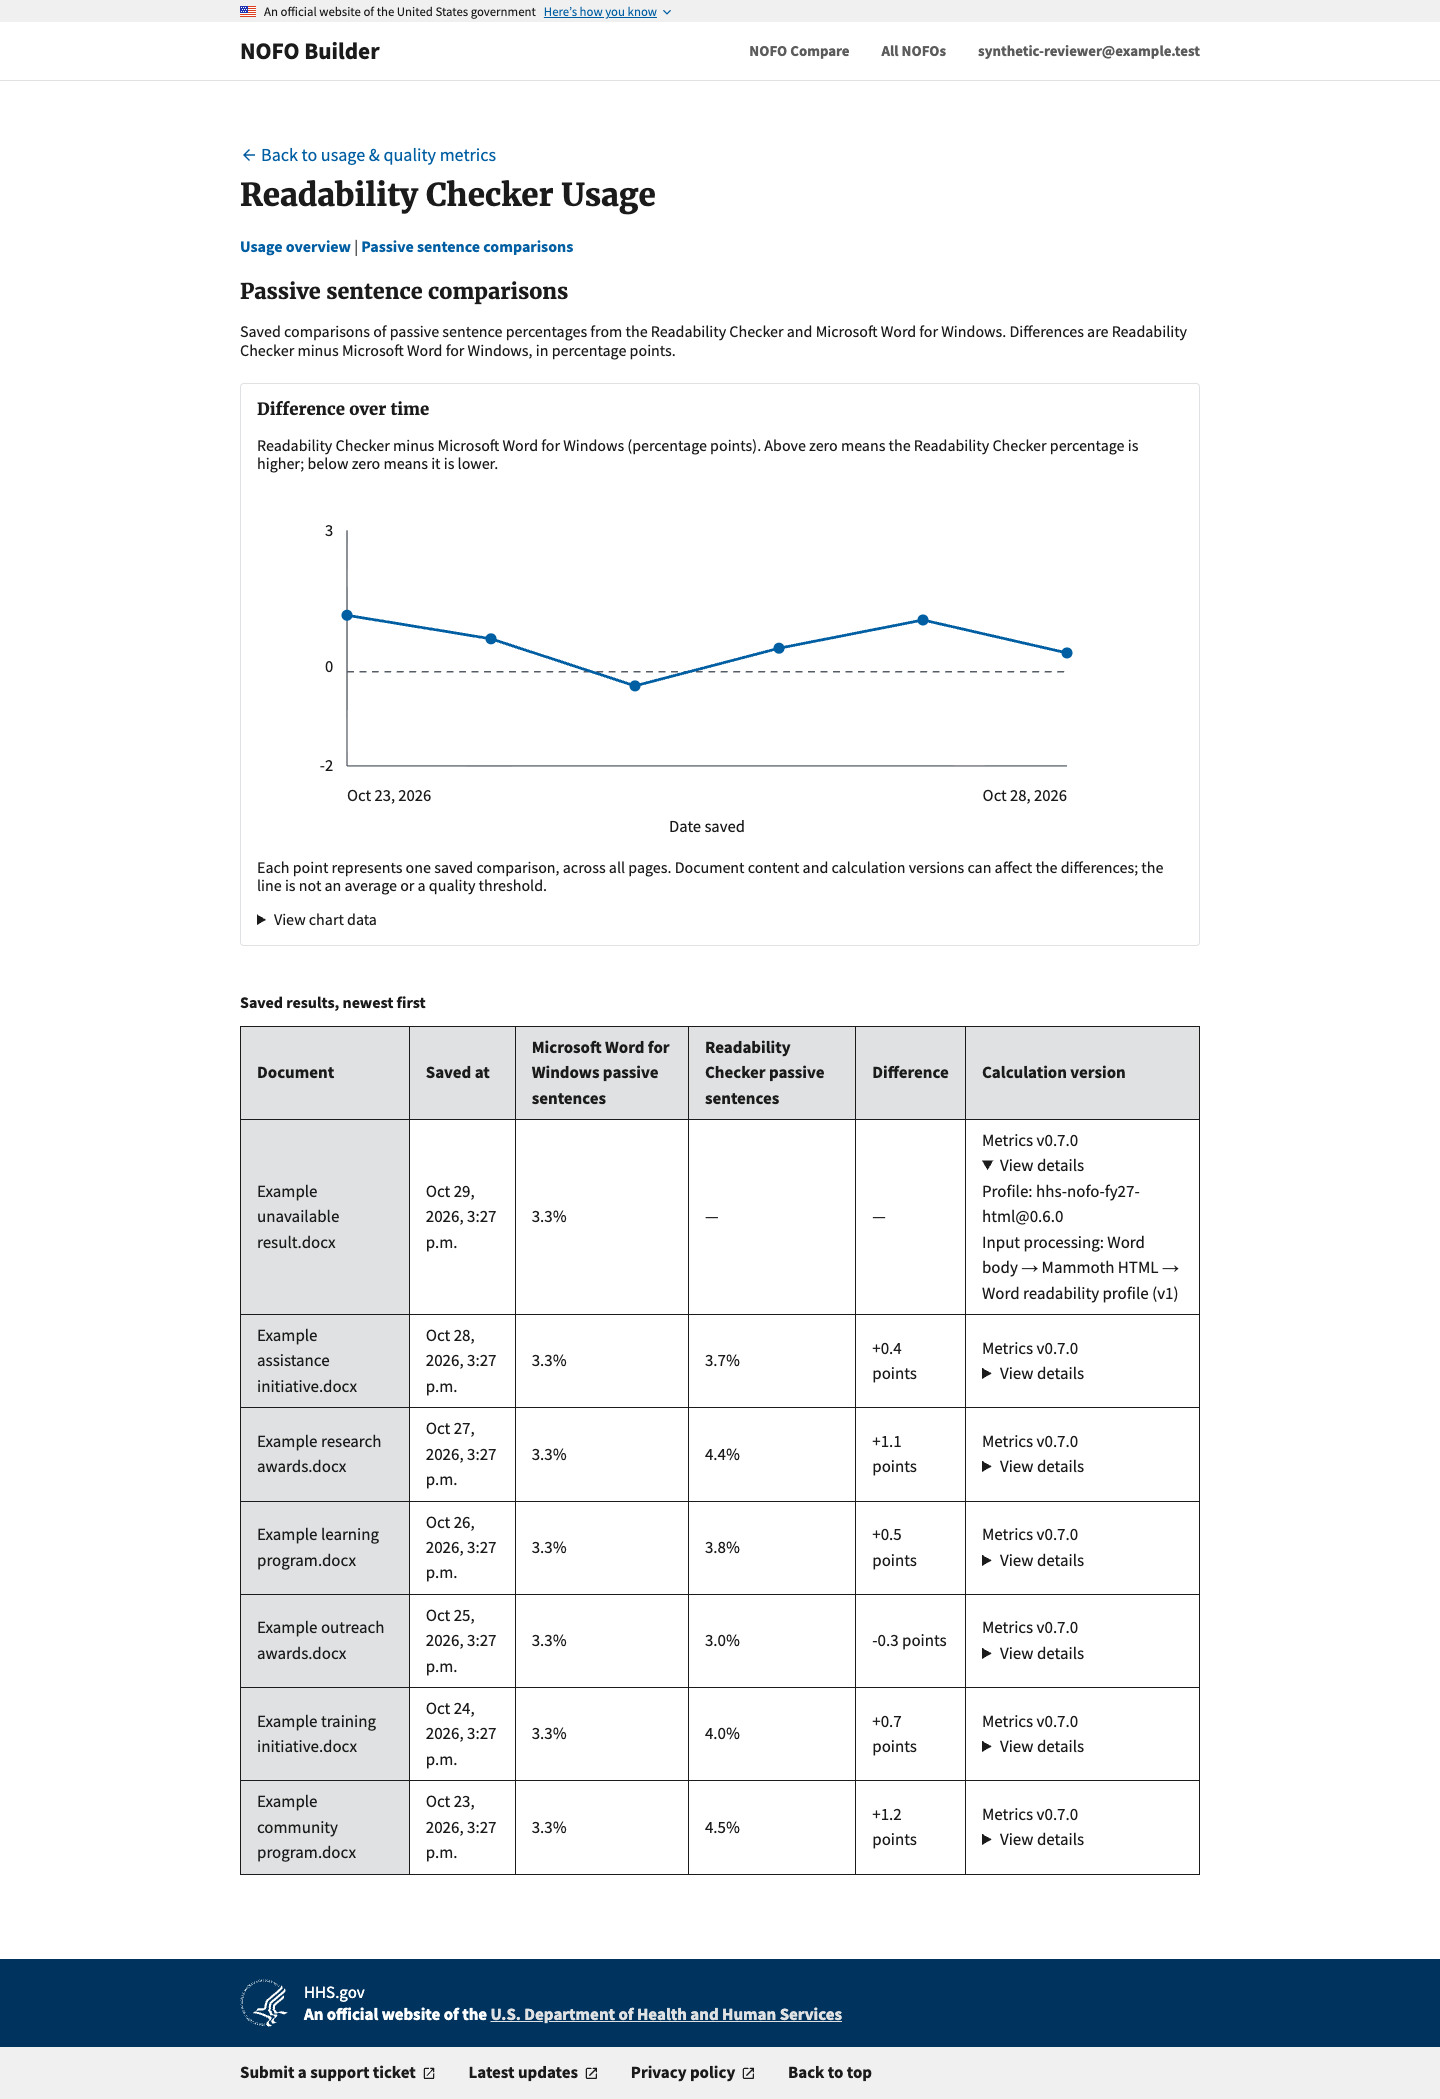
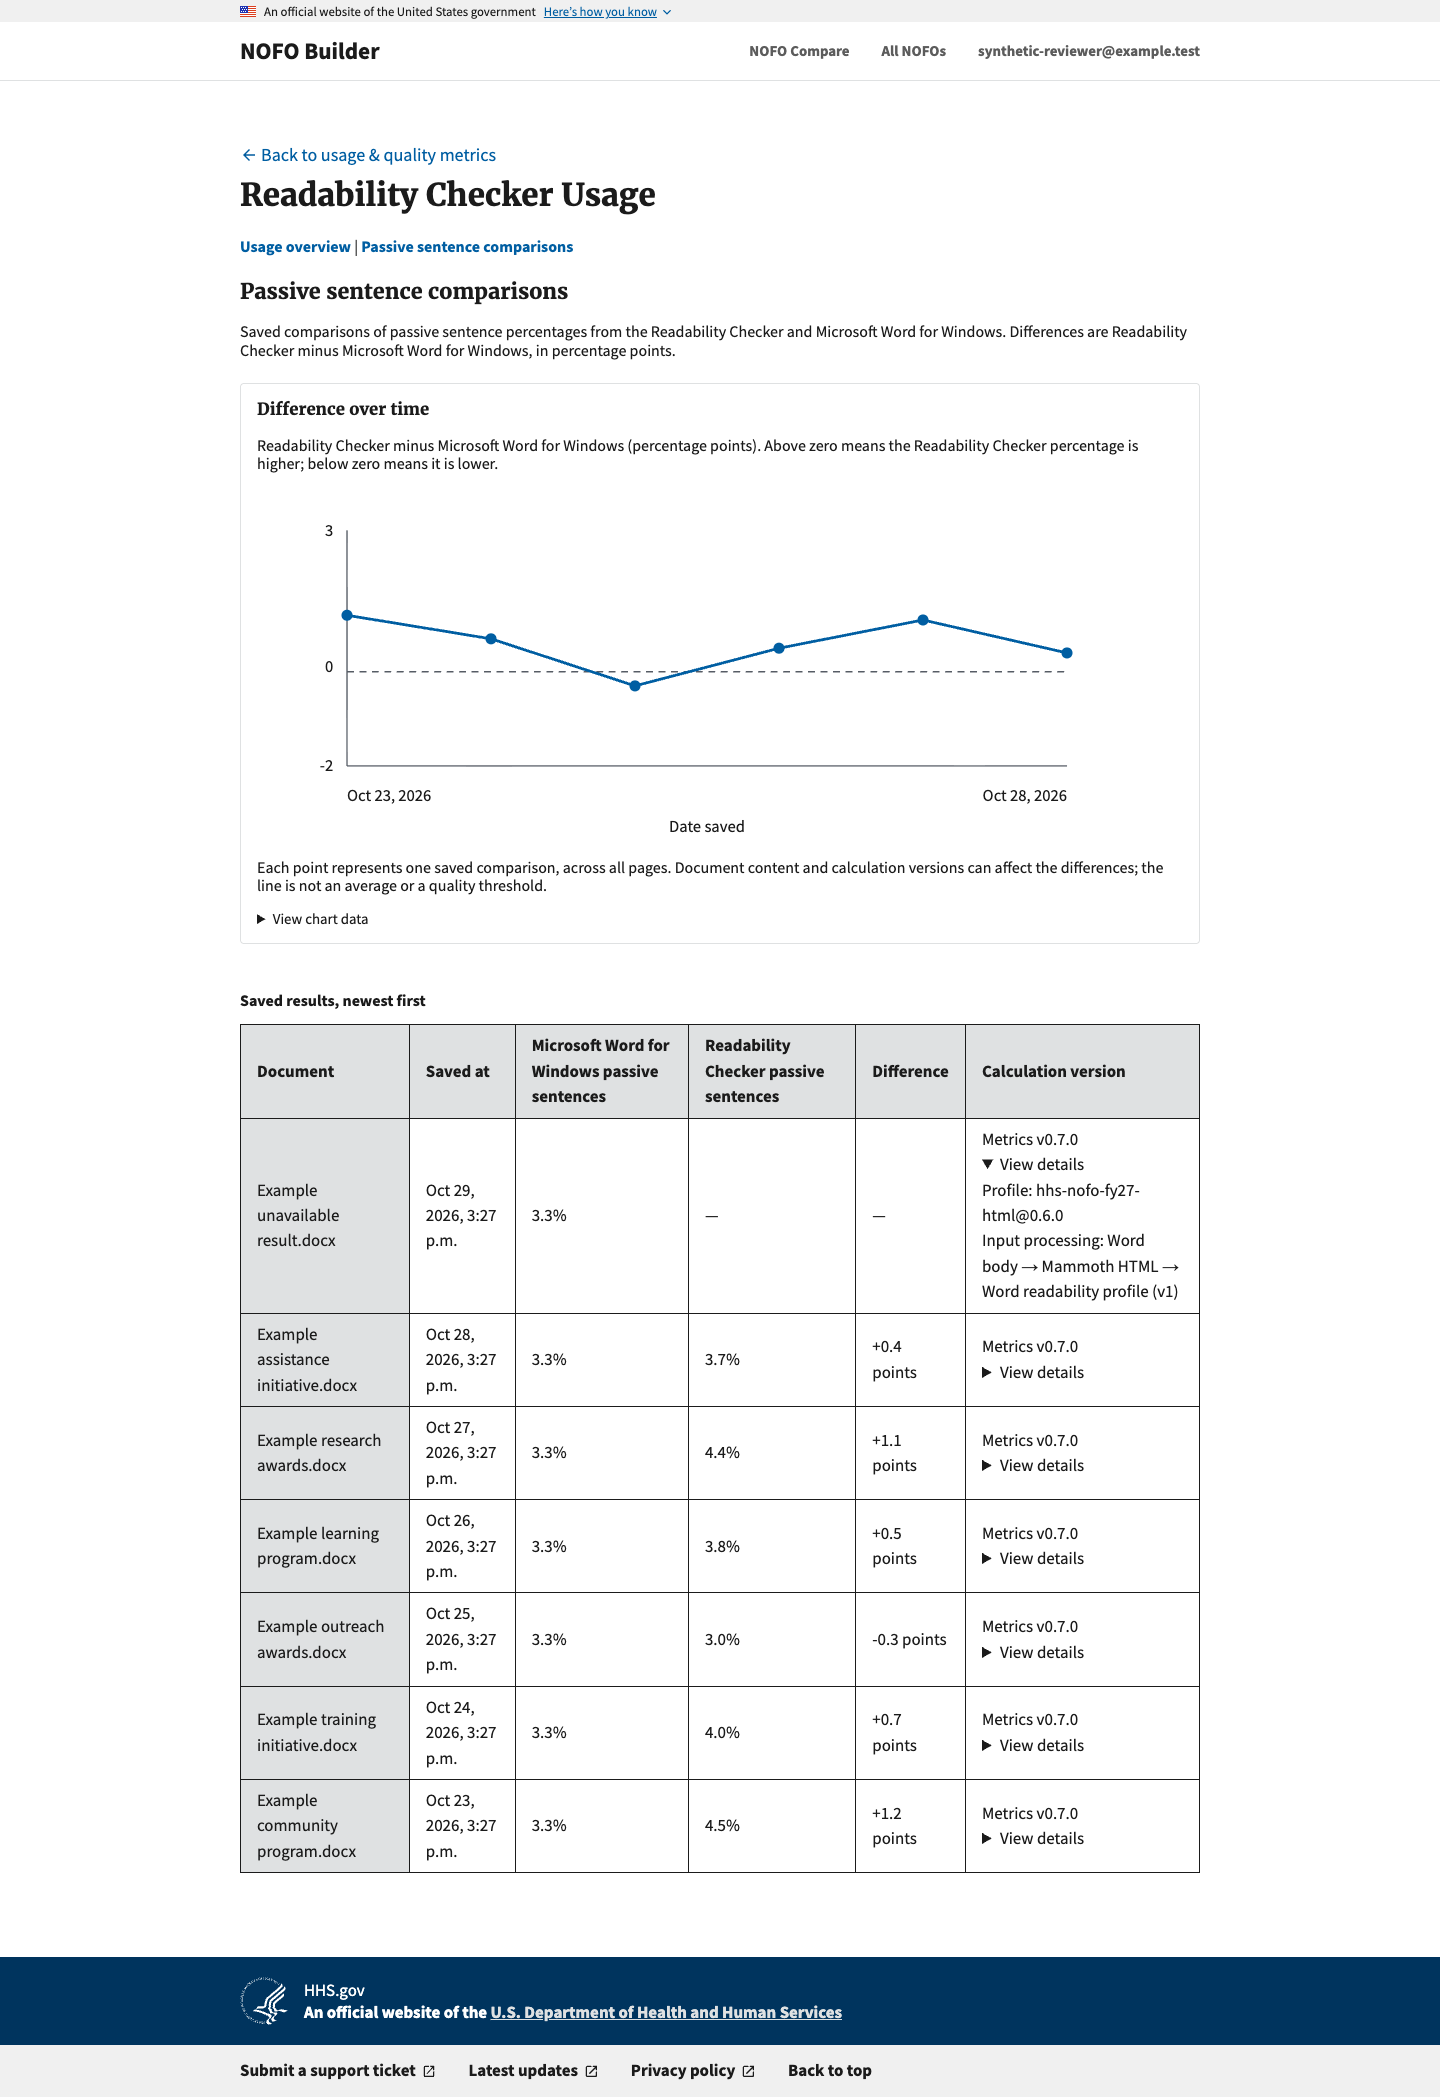
fix: match compact metrics layout for expanded chart data

diff --git a/nofos/nofos/templates/nofos/includes/word_comparison_trend.html b/nofos/nofos/templates/nofos/includes/word_comparison_trend.html
@@ -4,7 +4,7 @@
   {% if trend.points %}
   <svg viewBox="0 0 650 255" role="img" aria-labelledby="comparison-chart-title comparison-chart-desc" style="display:block;width:100%;max-width:900px;height:auto">
     <title id="comparison-chart-title">Passive sentence percentage-point differences over time</title>
-    <desc id="comparison-chart-desc">Each point is one saved document comparison, ordered by save date. The dashed line is zero difference. Exact values are available in the chart data table below.</desc>
+    <desc id="comparison-chart-desc">Each point is one saved document comparison, ordered by save date. The dashed line is zero difference. Exact values are available in the expanded chart data below.</desc>
     <line x1="65" y1="30" x2="65" y2="200" stroke="#565c65"/>
     <line x1="65" y1="200" x2="585" y2="200" stroke="#565c65"/>
     <line x1="65" y1="{{ trend.zero_y }}" x2="585" y2="{{ trend.zero_y }}" stroke="#565c65" stroke-dasharray="5 4"/>
@@ -20,14 +20,17 @@
     {% for point in trend.points %}<circle cx="{{ point.x }}" cy="{{ point.y }}" r="4" fill="#005ea2"><title>{{ point.filename }} · {{ point.date|date:"M j, Y, g:i a" }} · {{ point.difference|floatformat:1 }} percentage points</title></circle>{% endfor %}
   </svg>
   <p class="font-sans-xs">Each point represents one saved comparison, across all pages. Document content and calculation versions can affect the differences; the line is not an average or a quality threshold.</p>
-  <details>
-    <summary>View chart data</summary>
-    <div style="overflow-x:auto" tabindex="0" role="region" aria-label="Difference over time data">
-      <table class="usa-table"><caption>All plotted comparisons, oldest first</caption>
-        <thead><tr><th scope="col">Saved at</th><th scope="col">Document</th><th scope="col">Difference (percentage points)</th></tr></thead>
-        <tbody>{% for point in trend.points %}<tr><td>{{ point.date|date:"M j, Y, g:i a" }}</td><th scope="row">{{ point.filename }}</th><td>{% if point.difference > 0 %}+{% endif %}{{ point.difference|floatformat:1 }}</td></tr>{% endfor %}</tbody>
-      </table>
-    </div>
+  <details class="metrics-data-details margin-top-2 font-sans-2xs">
+    <summary><span>View chart data<span class="usa-sr-only"> for Difference over time</span></span></summary>
+    <p class="text-bold margin-bottom-1">All plotted comparisons, oldest first</p>
+    <dl class="margin-top-0">
+      {% for point in trend.points %}
+      <div class="grid-row grid-gap-1 padding-y-05">
+        <dt class="grid-col-8">{{ point.date|date:"M j, Y, g:i a" }}<span class="display-block text-normal">{{ point.filename }}</span></dt>
+        <dd class="grid-col-4 margin-0">{% if point.difference > 0 %}+{% endif %}{{ point.difference|floatformat:1 }} percentage points</dd>
+      </div>
+      {% endfor %}
+    </dl>
   </details>
   {% else %}<p>No paired percentages are available yet. Save a comparison to begin the chart.</p>{% endif %}
 </section>

diff --git a/nofos/nofos/tests_nofos/test_word_comparisons.py b/nofos/nofos/tests_nofos/test_word_comparisons.py
@@ -180,6 +180,13 @@ class ComparisonTests(TestCase):
         self.assertNotContains(response, "<form")
         self.assertNotContains(response, "Status</th>")
         self.assertEqual(len(response.context["trend"]["points"]), 27)
+        from bs4 import BeautifulSoup
+
+        chart_data = BeautifulSoup(response.content, "html.parser").select_one(
+            "details.metrics-data-details"
+        )
+        self.assertIsNone(chart_data.find("table"))
+        self.assertEqual(len(chart_data.find_all("dt")), 27)
         self.assertContains(response, "?page=2")
         self.user.user_permissions.remove(
             Permission.objects.get(codename="view_builder_metrics")

diff --git a/documentation/review-evidence/1248/README.md b/documentation/review-evidence/1248/README.md
@@ -118,3 +118,13 @@ for asynchronous saving. This report continues to use a normal POST/reload, with
 the shared alerts component's optional slim success variant: no separate heading,
 just “Comparison saved.” and the entered percentage. Existing alert callers
 retain their current appearance. Full-page success captures were refreshed. All 23 affected comparison, readability-history and shared-form tests pass.
+
+
+## Expanded chart-data layout review
+
+The expanded data now uses a compact, unbordered date/value definition list,
+matching the metrics landing page's View monthly data text size and spacing.
+Document names appear beneath dates. There is no nested table in the disclosure;
+the separate saved-results table remains below the chart. The full-page expanded
+capture has been refreshed. Fifteen comparison/metrics tests pass, including a
+check that the disclosure contains no table and includes every plotted value.

diff --git a/documentation/UI_PATTERNS.md b/documentation/UI_PATTERNS.md
@@ -633,3 +633,12 @@ live status (**Snapshot saved.**) for its asynchronous snapshot save:
 and [nofo_readability_metrics.js](../nofos/bloom_nofos/static/js/nofos/nofo_readability_metrics.js).
 Use that existing status approach for background snapshot saving. The uploaded
 report uses the slim shared success alert after its normal form POST/reload.
+
+
+The expanded **View chart data** content mirrors the metrics landing page's
+**View monthly data** typography and spacing: small text, compact date/value
+columns and no boxed usa-table treatment. Use a semantic definition list for
+comparison entries, including the document name beneath its date; do not nest
+a table inside this disclosure. Keep the full saved-results table outside the
+chart component. The shared disclosure classes are metrics-data-details,
+margin-top-2 and font-sans-2xs.
